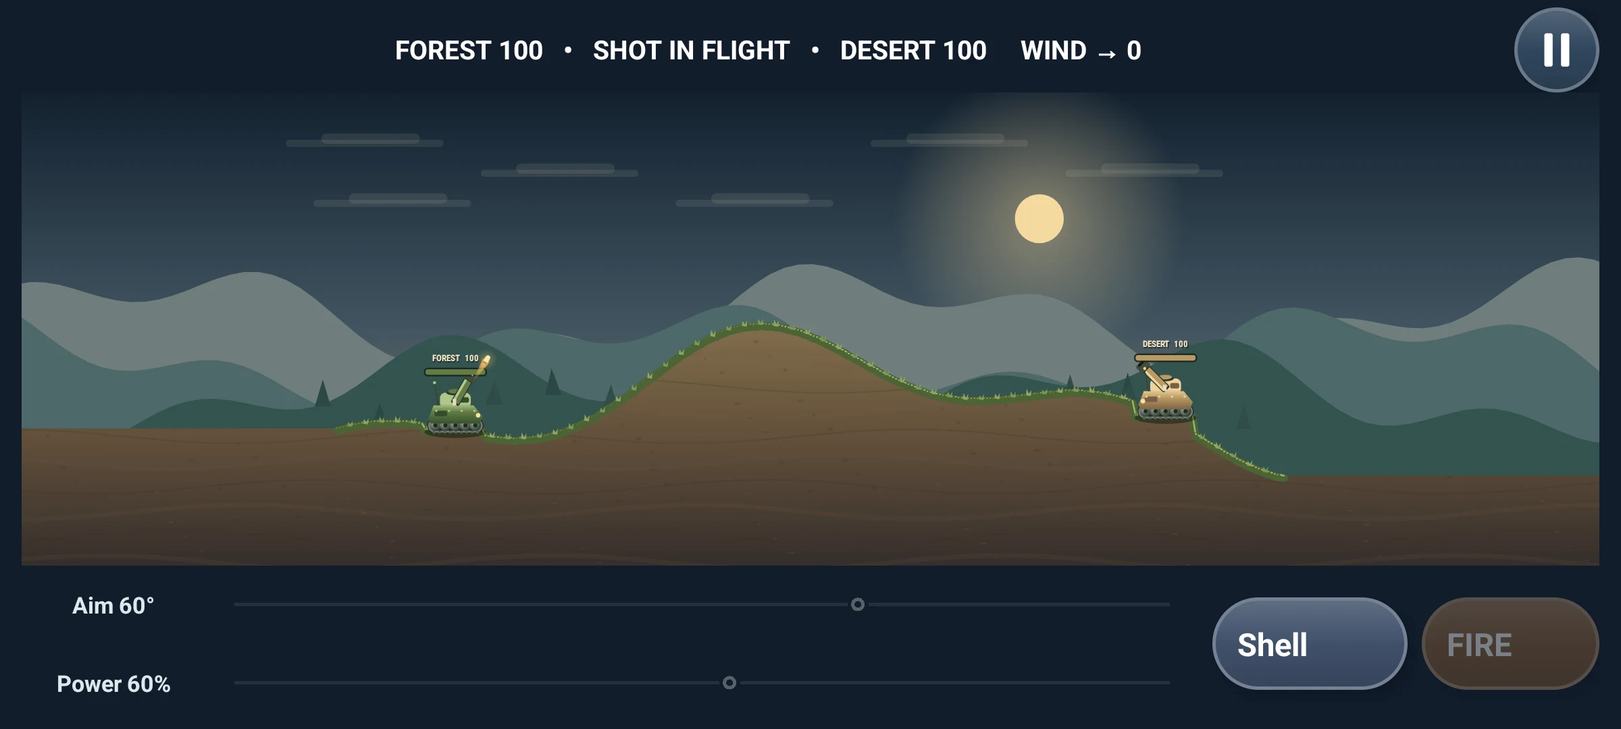
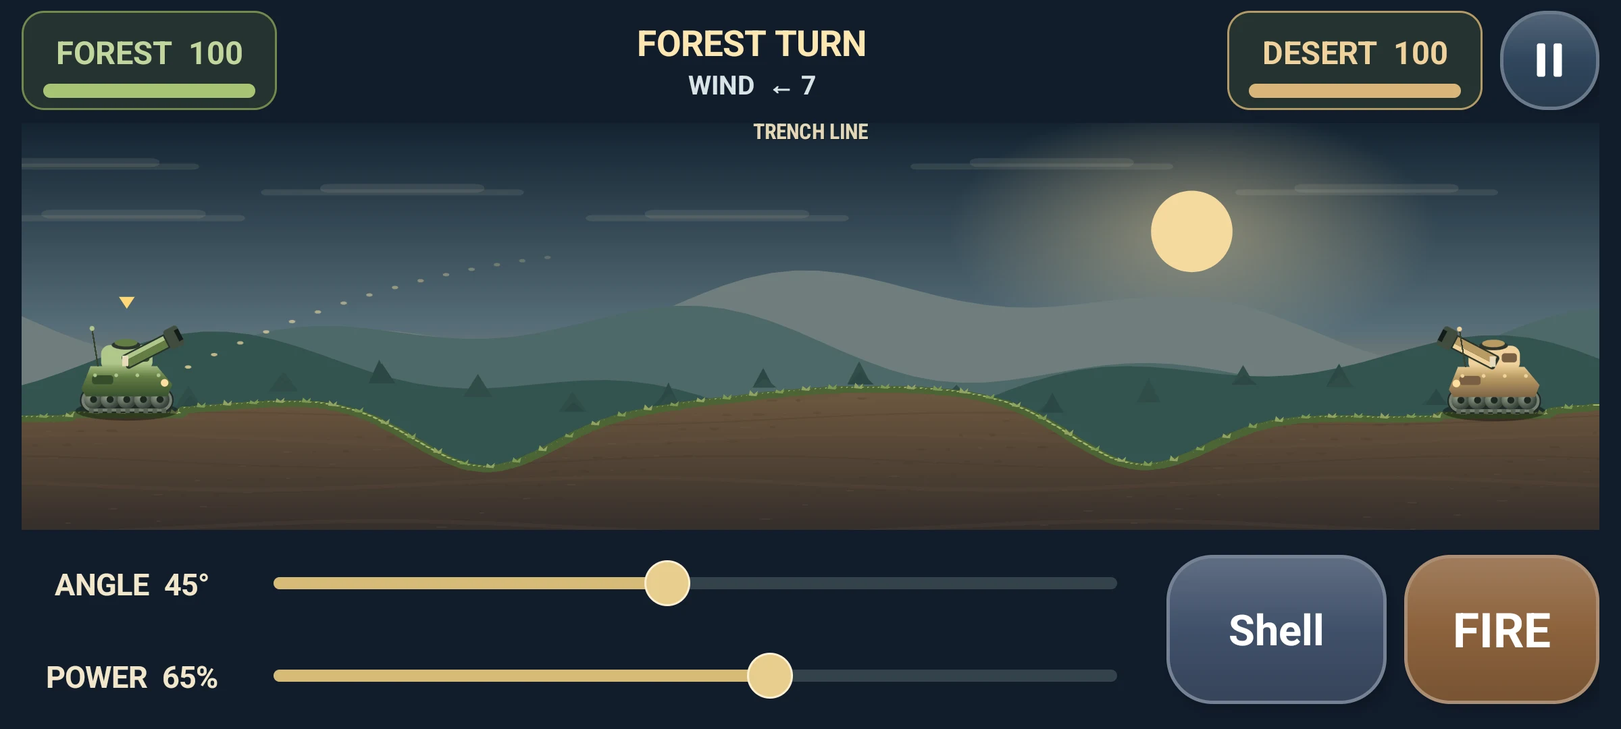
Refresh Tank Wars battlefields and larger gameplay controls

diff --git a/tank-wars/index.html b/tank-wars/index.html
@@ -1,1 +1,1 @@
-<!doctype html><html lang="en"><head><meta charset="utf-8"><meta name="viewport" content="width=device-width,initial-scale=1"><title>Tank Wars — Android Artillery Game — TripperDeeLabs</title><meta name="description" content="Aim, fire and reshape the hills in Tank Wars for Android. Turn-based artillery, destructible terrain, three weapons and offline local play. Coming soon."><link rel="canonical" href="https://tripperdeelabs.com/tank-wars/"><meta property="og:type" content="website"><meta property="og:title" content="Tank Wars — Android Artillery Game"><meta property="og:description" content="Aim, fire and reshape the hills in Tank Wars for Android. Turn-based artillery, destructible terrain, three weapons and offline local play. Coming soon."><meta property="og:url" content="https://tripperdeelabs.com/tank-wars/"><meta property="og:image" content="https://tripperdeelabs.com/assets/apps/tank-wars/art.webp"><meta property="og:image:alt" content="Tank Wars — Android Artillery Game"><meta name="twitter:card" content="summary_large_image"><meta name="twitter:title" content="Tank Wars — Android Artillery Game"><meta name="twitter:description" content="Aim, fire and reshape the hills in Tank Wars for Android. Turn-based artillery, destructible terrain, three weapons and offline local play. Coming soon."><meta name="twitter:image" content="https://tripperdeelabs.com/assets/apps/tank-wars/art.webp"><meta name="twitter:image:alt" content="Tank Wars — Android Artillery Game"><script type="application/ld+json">{"@context": "https://schema.org", "@graph": [{"@type": "Organization", "@id": "https://tripperdeelabs.com/#studio", "name": "TripperDeeLabs", "url": "https://tripperdeelabs.com/", "logo": "https://tripperdeelabs.com/assets/tripperdeelabs-logo.png", "email": "tripperdeelabs@gmail.com"}, {"@type": "WebSite", "@id": "https://tripperdeelabs.com/#website", "url": "https://tripperdeelabs.com/", "name": "TripperDeeLabs", "publisher": {"@id": "https://tripperdeelabs.com/#studio"}, "inLanguage": "en"}, {"@type": "WebPage", "@id": "https://tripperdeelabs.com/tank-wars/#webpage", "url": "https://tripperdeelabs.com/tank-wars/", "name": "Tank Wars \u2014 Android Artillery Game", "description": "Aim, fire and reshape the hills in Tank Wars for Android. Turn-based artillery, destructible terrain, three weapons and offline local play. Coming soon.", "isPartOf": {"@id": "https://tripperdeelabs.com/#website"}, "publisher": {"@id": "https://tripperdeelabs.com/#studio"}, "inLanguage": "en"}, {"@type": "BreadcrumbList", "itemListElement": [{"@type": "ListItem", "position": 1, "name": "Home", "item": "https://tripperdeelabs.com/"}, {"@type": "ListItem", "position": 2, "name": "Tank Wars \u2014 Android Artillery Game", "item": "https://tripperdeelabs.com/tank-wars/"}]}]}</script><link rel="icon" href="/assets/tripperdeelabs-logo.png" type="image/png"><link rel="stylesheet" href="/styles.css"><link rel="stylesheet" href="/catalog.css"><script defer src="/cookie-consent.js"></script></head><body><a class="skip-link" href="#main-content">Skip to main content</a><header class="site-header"><nav class="nav wrap" aria-label="Main navigation"><a class="brand" href="/"><img class="brand-logo" src="/assets/tripperdeelabs-logo.png" width="48" height="48" alt="">TripperDeeLabs</a><div class="links"><a href="/#apps">Apps</a><a href="/wear-os/">Wear OS</a><a href="/#about">About</a></div></nav></header><main id="main-content" tabindex="-1" class="wrap"><nav class="breadcrumbs" aria-label="Breadcrumb"><a href="/">Home</a> <span aria-hidden="true">/</span> <span aria-current="page">Tank Wars — Android Artillery Game</span></nav><style>.tank-hero{display:grid;grid-template-columns:1.1fr 1fr;gap:2rem;align-items:center}.tank-hero img{width:100%;height:auto;border-radius:24px}.tank-gallery{display:grid;gap:1.2rem}.tank-gallery img{width:100%;height:auto;border-radius:18px}.tank-gallery figure{margin:0}@media(max-width:650px){.tank-hero{grid-template-columns:1fr}}</style><section class="catalog-hero tank-hero"><div><p class="eyebrow">Android artillery game · Coming soon</p><h1>Tank Wars</h1><p class="lead">Aim high. Change the ground.</p><p>Line up your angle, choose your power and send a shell across the hills. Every crater changes the battlefield—and your next shot.</p><p><a class="button" href="#screenshots">See the battlefield</a> · <a href="/tank-wars/support/">How to play</a></p><p>In development. Not yet available on Google Play.</p></div><img src="/assets/apps/tank-wars/art.webp" width="768" height="768" alt="Forest-green and desert-tan camouflage tanks on opposing green hills beneath a golden shell arc"></section><section><h2>Make every shot count</h2><p>Tank Wars is a native Android, turn-based artillery game. Adjust your turret angle and firing power, watch the wind, then fire. Projectiles follow curved trajectories, explosions carve away terrain, and tanks fall when the ground underneath them disappears.</p><h2>Three ways to play</h2><p>Practice against the computer, trade turns with a friend on one phone or tablet, or try the paired Bluetooth Host a game / Join a game mode. Local gameplay needs no internet and no account.</p><p>Bluetooth is implemented in the development build, with the host calculating shots, damage and turns. Synchronization is tested in software; two-device radio gameplay still requires validation. Both devices need Bluetooth enabled, Android pairing and the same app version.</p><h2>Choose your weapon</h2><p><strong>Shell</strong> gives you unlimited standard shots. <strong>Heavy</strong> makes a wider blast, with three rounds per battle. <strong>Drill</strong> digs deeper into the ground, also with three rounds. Use terrain damage to change your opponent’s position, but protect your own foothold.</p></section><section id="screenshots"><h2>Inside the game</h2><p>Actual Android development-build captures from the emulator. Final release details may change.</p><div class="tank-gallery"><figure><img src="/assets/apps/tank-wars/home.webp" width="2400" height="1080" loading="lazy" alt="Tank Wars landscape menu with computer, two-player and Bluetooth modes"><figcaption>Choose a battle. Settings uses the gear icon.</figcaption></figure><figure><img src="/assets/apps/tank-wars/game.webp" width="2400" height="1080" loading="lazy" alt="Tank Wars battlefield with terrain, tanks, aiming sliders and Fire button"><figcaption>Native touch controls and a Canvas-rendered battlefield.</figcaption></figure></div></section><section><h2>Play at your pace</h2><p>Pause mid-shot, then resume where you left off. Local battles save on your device. Sound is optional. Compact controls keep the battlefield visible on phones and tablets.</p><h2>Between battles</h2><p>Development builds use Google test interstitial ads only after a completed battle, when starting another battle or returning Home. Close the ad to continue. If no ad is ready, play continues normally. Ads require internet; gameplay does not. Launch pricing and production ad configuration have not been announced.</p></section><p><a href="/tank-wars/privacy/">Privacy policy</a> · <a href="/tank-wars/support/">Support</a></p></main><footer class="studio-footer"><div class="wrap"><div class="studio-footer-main"><div class="studio-footer-brand"><a href="/">TripperDeeLabs</a><p>Doing TripperDee things in a TripperDee world.</p></div><nav class="studio-footer-nav" aria-label="Footer navigation"><a href="/#apps">Apps</a><a href="/#about">About the developer</a><a href="mailto:tripperdeelabs@gmail.com">Contact</a><a href="/feedback/">Feedback</a><a href="/privacy/">Website privacy</a></nav></div><div class="studio-footer-bottom"><span>© 2026 TripperDeeLabs</span><span>Google Play and the Google Play logo are trademarks of Google LLC.</span></div></div></footer></body></html>
+<!doctype html><html lang="en"><head><meta charset="utf-8"><meta name="viewport" content="width=device-width,initial-scale=1"><title>Tank Wars — Android Artillery Game — TripperDeeLabs</title><meta name="description" content="Aim, fire and reshape the hills in Tank Wars for Android. Turn-based artillery, destructible terrain, three weapons and offline local play. Coming soon."><link rel="canonical" href="https://tripperdeelabs.com/tank-wars/"><meta property="og:type" content="website"><meta property="og:title" content="Tank Wars — Android Artillery Game"><meta property="og:description" content="Aim, fire and reshape the hills in Tank Wars for Android. Turn-based artillery, destructible terrain, three weapons and offline local play. Coming soon."><meta property="og:url" content="https://tripperdeelabs.com/tank-wars/"><meta property="og:image" content="https://tripperdeelabs.com/assets/apps/tank-wars/art.webp"><meta property="og:image:alt" content="Tank Wars — Android Artillery Game"><meta name="twitter:card" content="summary_large_image"><meta name="twitter:title" content="Tank Wars — Android Artillery Game"><meta name="twitter:description" content="Aim, fire and reshape the hills in Tank Wars for Android. Turn-based artillery, destructible terrain, three weapons and offline local play. Coming soon."><meta name="twitter:image" content="https://tripperdeelabs.com/assets/apps/tank-wars/art.webp"><meta name="twitter:image:alt" content="Tank Wars — Android Artillery Game"><script type="application/ld+json">{"@context": "https://schema.org", "@graph": [{"@type": "Organization", "@id": "https://tripperdeelabs.com/#studio", "name": "TripperDeeLabs", "url": "https://tripperdeelabs.com/", "logo": "https://tripperdeelabs.com/assets/tripperdeelabs-logo.png", "email": "tripperdeelabs@gmail.com"}, {"@type": "WebSite", "@id": "https://tripperdeelabs.com/#website", "url": "https://tripperdeelabs.com/", "name": "TripperDeeLabs", "publisher": {"@id": "https://tripperdeelabs.com/#studio"}, "inLanguage": "en"}, {"@type": "WebPage", "@id": "https://tripperdeelabs.com/tank-wars/#webpage", "url": "https://tripperdeelabs.com/tank-wars/", "name": "Tank Wars \u2014 Android Artillery Game", "description": "Aim, fire and reshape the hills in Tank Wars for Android. Turn-based artillery, destructible terrain, three weapons and offline local play. Coming soon.", "isPartOf": {"@id": "https://tripperdeelabs.com/#website"}, "publisher": {"@id": "https://tripperdeelabs.com/#studio"}, "inLanguage": "en"}, {"@type": "BreadcrumbList", "itemListElement": [{"@type": "ListItem", "position": 1, "name": "Home", "item": "https://tripperdeelabs.com/"}, {"@type": "ListItem", "position": 2, "name": "Tank Wars \u2014 Android Artillery Game", "item": "https://tripperdeelabs.com/tank-wars/"}]}]}</script><link rel="icon" href="/assets/tripperdeelabs-logo.png" type="image/png"><link rel="stylesheet" href="/styles.css"><link rel="stylesheet" href="/catalog.css"><script defer src="/cookie-consent.js"></script></head><body><a class="skip-link" href="#main-content">Skip to main content</a><header class="site-header"><nav class="nav wrap" aria-label="Main navigation"><a class="brand" href="/"><img class="brand-logo" src="/assets/tripperdeelabs-logo.png" width="48" height="48" alt="">TripperDeeLabs</a><div class="links"><a href="/#apps">Apps</a><a href="/wear-os/">Wear OS</a><a href="/#about">About</a></div></nav></header><main id="main-content" tabindex="-1" class="wrap"><nav class="breadcrumbs" aria-label="Breadcrumb"><a href="/">Home</a> <span aria-hidden="true">/</span> <span aria-current="page">Tank Wars — Android Artillery Game</span></nav><style>.tank-hero{display:grid;grid-template-columns:1.1fr 1fr;gap:2rem;align-items:center}.tank-hero img{width:100%;height:auto;border-radius:24px}.tank-gallery{display:grid;gap:1.2rem}.tank-gallery img{width:100%;height:auto;border-radius:18px}.tank-gallery figure{margin:0}@media(max-width:650px){.tank-hero{grid-template-columns:1fr}}</style><section class="catalog-hero tank-hero"><div><p class="eyebrow">Android artillery game · Coming soon</p><h1>Tank Wars</h1><p class="lead">Aim high. Change the ground.</p><p>Line up your angle, choose your power and send a shell across the hills. Every crater changes the battlefield—and your next shot.</p><p><a class="button" href="#screenshots">See the battlefield</a> · <a href="/tank-wars/support/">How to play</a></p><p>In development. Not yet available on Google Play.</p></div><img src="/assets/apps/tank-wars/art.webp" width="768" height="768" alt="Forest-green and desert-tan camouflage tanks on opposing green hills beneath a golden shell arc"></section><section><h2>Make every shot count</h2><p>Tank Wars is a native Android, turn-based artillery game. Adjust your turret angle and firing power, watch the wind, then fire. Projectiles follow curved trajectories, explosions carve away terrain, and tanks fall when the ground underneath them disappears.</p><h2>Three ways to play</h2><p>Practice against the computer, trade turns with a friend on one phone or tablet, or try the paired Bluetooth Host a game / Join a game mode. Local gameplay needs no internet and no account.</p><p>Bluetooth is implemented in the development build, with the host calculating shots, damage and turns. Synchronization is tested in software; two-device radio gameplay still requires validation. Both devices need Bluetooth enabled, Android pairing and the same app version.</p><h2>A different battlefield</h2><p>Battle across rolling hills, ridgelines, trenches, border walls and fortified outposts. Tanks start farther apart on flat firing positions. Concrete defenses block shells and break down under explosions, so the battlefield changes with every hit.</p><h2>Choose your weapon</h2><p><strong>Shell</strong> gives you unlimited standard shots. <strong>Heavy</strong> makes a wider blast, with three rounds per battle. <strong>Drill</strong> digs deeper into the ground, also with three rounds. The illustrated weapon chooser shows your equipped shell and remaining ammunition. Use terrain damage to change your opponent’s position, but protect your own foothold.</p></section><section id="screenshots"><h2>Inside the game</h2><p>Actual Android development-build captures from the emulator. Final release details may change.</p><div class="tank-gallery"><figure><img src="/assets/apps/tank-wars/home.webp" width="2400" height="1080" loading="lazy" alt="Tank Wars landscape menu with computer, two-player and Bluetooth modes"><figcaption>Choose a battle. Settings uses the gear icon.</figcaption></figure><figure><img src="/assets/apps/tank-wars/game.webp" width="2400" height="1080" loading="lazy" alt="Tank Wars battlefield with terrain, tanks, aiming sliders and Fire button"><figcaption>Native touch controls and a Canvas-rendered battlefield.</figcaption></figure></div></section><section><h2>Play at your pace</h2><p>Pause mid-shot, then resume where you left off. Local battles save on your device. Sound is optional. Compact controls keep the battlefield visible on phones and tablets.</p><h2>Between battles</h2><p>Development builds use Google test interstitial ads only after a completed battle, when starting another battle or returning Home. Close the ad to continue. If no ad is ready, play continues normally. Ads require internet; gameplay does not. Launch pricing and production ad configuration have not been announced.</p></section><p><a href="/tank-wars/privacy/">Privacy policy</a> · <a href="/tank-wars/support/">Support</a></p></main><footer class="studio-footer"><div class="wrap"><div class="studio-footer-main"><div class="studio-footer-brand"><a href="/">TripperDeeLabs</a><p>Doing TripperDee things in a TripperDee world.</p></div><nav class="studio-footer-nav" aria-label="Footer navigation"><a href="/#apps">Apps</a><a href="/#about">About the developer</a><a href="mailto:tripperdeelabs@gmail.com">Contact</a><a href="/feedback/">Feedback</a><a href="/privacy/">Website privacy</a></nav></div><div class="studio-footer-bottom"><span>© 2026 TripperDeeLabs</span><span>Google Play and the Google Play logo are trademarks of Google LLC.</span></div></div></footer></body></html>

diff --git a/scripts/tank_wars_pages.py b/scripts/tank_wars_pages.py
@@ -4,7 +4,7 @@ from bs4 import BeautifulSoup
 ROOT=Path(__file__).resolve().parents[1]
 def build(page):
  base='/assets/apps/tank-wars/'
- body=f'''<style>.tank-hero{{display:grid;grid-template-columns:1.1fr 1fr;gap:2rem;align-items:center}}.tank-hero img{{width:100%;height:auto;border-radius:24px}}.tank-gallery{{display:grid;gap:1.2rem}}.tank-gallery img{{width:100%;height:auto;border-radius:18px}}.tank-gallery figure{{margin:0}}@media(max-width:650px){{.tank-hero{{grid-template-columns:1fr}}}}</style><section class="catalog-hero tank-hero"><div><p class="eyebrow">Android artillery game · Coming soon</p><h1>Tank Wars</h1><p class="lead">Aim high. Change the ground.</p><p>Line up your angle, choose your power and send a shell across the hills. Every crater changes the battlefield—and your next shot.</p><p><a class="button" href="#screenshots">See the battlefield</a> · <a href="/tank-wars/support/">How to play</a></p><p>In development. Not yet available on Google Play.</p></div><img src="{base}art.webp" width="768" height="768" alt="Forest-green and desert-tan camouflage tanks on opposing green hills beneath a golden shell arc"></section><section><h2>Make every shot count</h2><p>Tank Wars is a native Android, turn-based artillery game. Adjust your turret angle and firing power, watch the wind, then fire. Projectiles follow curved trajectories, explosions carve away terrain, and tanks fall when the ground underneath them disappears.</p><h2>Three ways to play</h2><p>Practice against the computer, trade turns with a friend on one phone or tablet, or try the paired Bluetooth Host a game / Join a game mode. Local gameplay needs no internet and no account.</p><p>Bluetooth is implemented in the development build, with the host calculating shots, damage and turns. Synchronization is tested in software; two-device radio gameplay still requires validation. Both devices need Bluetooth enabled, Android pairing and the same app version.</p><h2>Choose your weapon</h2><p><strong>Shell</strong> gives you unlimited standard shots. <strong>Heavy</strong> makes a wider blast, with three rounds per battle. <strong>Drill</strong> digs deeper into the ground, also with three rounds. Use terrain damage to change your opponent’s position, but protect your own foothold.</p></section><section id="screenshots"><h2>Inside the game</h2><p>Actual Android development-build captures from the emulator. Final release details may change.</p><div class="tank-gallery"><figure><img src="{base}home.webp" width="2400" height="1080" loading="lazy" alt="Tank Wars landscape menu with computer, two-player and Bluetooth modes"><figcaption>Choose a battle. Settings uses the gear icon.</figcaption></figure><figure><img src="{base}game.webp" width="2400" height="1080" loading="lazy" alt="Tank Wars battlefield with terrain, tanks, aiming sliders and Fire button"><figcaption>Native touch controls and a Canvas-rendered battlefield.</figcaption></figure></div></section><section><h2>Play at your pace</h2><p>Pause mid-shot, then resume where you left off. Local battles save on your device. Sound is optional. Compact controls keep the battlefield visible on phones and tablets.</p><h2>Between battles</h2><p>Development builds use Google test interstitial ads only after a completed battle, when starting another battle or returning Home. Close the ad to continue. If no ad is ready, play continues normally. Ads require internet; gameplay does not. Launch pricing and production ad configuration have not been announced.</p></section><p><a href="/tank-wars/privacy/">Privacy policy</a> · <a href="/tank-wars/support/">Support</a></p>'''
+ body=f'''<style>.tank-hero{{display:grid;grid-template-columns:1.1fr 1fr;gap:2rem;align-items:center}}.tank-hero img{{width:100%;height:auto;border-radius:24px}}.tank-gallery{{display:grid;gap:1.2rem}}.tank-gallery img{{width:100%;height:auto;border-radius:18px}}.tank-gallery figure{{margin:0}}@media(max-width:650px){{.tank-hero{{grid-template-columns:1fr}}}}</style><section class="catalog-hero tank-hero"><div><p class="eyebrow">Android artillery game · Coming soon</p><h1>Tank Wars</h1><p class="lead">Aim high. Change the ground.</p><p>Line up your angle, choose your power and send a shell across the hills. Every crater changes the battlefield—and your next shot.</p><p><a class="button" href="#screenshots">See the battlefield</a> · <a href="/tank-wars/support/">How to play</a></p><p>In development. Not yet available on Google Play.</p></div><img src="{base}art.webp" width="768" height="768" alt="Forest-green and desert-tan camouflage tanks on opposing green hills beneath a golden shell arc"></section><section><h2>Make every shot count</h2><p>Tank Wars is a native Android, turn-based artillery game. Adjust your turret angle and firing power, watch the wind, then fire. Projectiles follow curved trajectories, explosions carve away terrain, and tanks fall when the ground underneath them disappears.</p><h2>Three ways to play</h2><p>Practice against the computer, trade turns with a friend on one phone or tablet, or try the paired Bluetooth Host a game / Join a game mode. Local gameplay needs no internet and no account.</p><p>Bluetooth is implemented in the development build, with the host calculating shots, damage and turns. Synchronization is tested in software; two-device radio gameplay still requires validation. Both devices need Bluetooth enabled, Android pairing and the same app version.</p><h2>A different battlefield</h2><p>Battle across rolling hills, ridgelines, trenches, border walls and fortified outposts. Tanks start farther apart on flat firing positions. Concrete defenses block shells and break down under explosions, so the battlefield changes with every hit.</p><h2>Choose your weapon</h2><p><strong>Shell</strong> gives you unlimited standard shots. <strong>Heavy</strong> makes a wider blast, with three rounds per battle. <strong>Drill</strong> digs deeper into the ground, also with three rounds. The illustrated weapon chooser shows your equipped shell and remaining ammunition. Use terrain damage to change your opponent’s position, but protect your own foothold.</p></section><section id="screenshots"><h2>Inside the game</h2><p>Actual Android development-build captures from the emulator. Final release details may change.</p><div class="tank-gallery"><figure><img src="{base}home.webp" width="2400" height="1080" loading="lazy" alt="Tank Wars landscape menu with computer, two-player and Bluetooth modes"><figcaption>Choose a battle. Settings uses the gear icon.</figcaption></figure><figure><img src="{base}game.webp" width="2400" height="1080" loading="lazy" alt="Tank Wars battlefield with terrain, tanks, aiming sliders and Fire button"><figcaption>Native touch controls and a Canvas-rendered battlefield.</figcaption></figure></div></section><section><h2>Play at your pace</h2><p>Pause mid-shot, then resume where you left off. Local battles save on your device. Sound is optional. Compact controls keep the battlefield visible on phones and tablets.</p><h2>Between battles</h2><p>Development builds use Google test interstitial ads only after a completed battle, when starting another battle or returning Home. Close the ad to continue. If no ad is ready, play continues normally. Ads require internet; gameplay does not. Launch pricing and production ad configuration have not been announced.</p></section><p><a href="/tank-wars/privacy/">Privacy policy</a> · <a href="/tank-wars/support/">Support</a></p>'''
  page('/tank-wars/','Tank Wars — Android Artillery Game','Aim, fire and reshape the hills in Tank Wars for Android. Turn-based artillery, destructible terrain, three weapons and offline local play. Coming soon.',body,'https://tripperdeelabs.com'+base+'art.webp')
  page('/tank-wars/privacy/','Tank Wars privacy policy','Tank Wars local saves, optional paired Bluetooth, Google test ads and support practices.','''<section><h1>Tank Wars privacy policy</h1><p>Updated November 6, 2026. This describes the current Tank Wars Android development build, package com.tripperdeelabs.tankwars, provided by TripperDeeLabs.</p><h2>Local battle data</h2><p>Terrain, tank health, turn, projectile state and sound preferences are saved in the app’s private device storage. No TripperDeeLabs account or cloud-save service is used. Uninstalling or clearing storage removes this data. Android backup is disabled in the manifest; manufacturer device-transfer behavior may vary.</p><h2>Bluetooth play</h2><p>Optional Bluetooth shares aiming and firing commands, terrain changes and battle state directly with your paired opponent. Android Nearby devices permission is requested on supported versions. The game uses Android settings for device discovery and pairing. Battle messages are not uploaded to a TripperDeeLabs server. Leaving the app ends the Bluetooth session; your separate local save is retained.</p><h2>Advertising</h2><p>The current build includes Google Mobile Ads SDK using Google test interstitials. Production ads are disabled. The SDK may process IP addresses, device/network information, diagnostics and ad interactions for ad delivery, measurement and security. Test requests use G-rated, child-directed and under-age-of-consent treatment flags. These settings are not a claim of approved production audience or Families eligibility. No developer-operated analytics SDK is included.</p><p>See <a href="https://policies.google.com/privacy">Google’s privacy policy</a>. Production audience, advertising and consent setup must be completed before release. This policy will be updated if practices change.</p><h2>Permissions and choices</h2><p>Internet/network-state access supports ads. Nearby devices access is optional for local play. Tank Wars does not request location, contacts, microphone or camera permission. There are no purchases in this build.</p><h2>Support and privacy questions</h2><p>Email <a href="mailto:tripperdeelabs@gmail.com">tripperdeelabs@gmail.com</a>. We receive the information you choose to send and use it to respond. Avoid sending passwords or payment details. You may also contact us concerning support correspondence.</p><p>Website analytics are separate from the app and covered by our <a href="/privacy/">website privacy policy</a>.</p><p><a href="/tank-wars/">Game overview</a> · <a href="/tank-wars/support/">Support</a></p></section>''')
  page('/tank-wars/support/','Tank Wars support','How to aim, use weapons, pause, save and connect over Bluetooth in Tank Wars.','''<section><h1>Tank Wars support</h1><h2>Aim and fire</h2><p>Play in landscape. Move the Aim slider to change your turret angle and the Power slider to change shot strength. Tap the weapon name to choose Shell, Heavy or Drill. Tap FIRE when it is your turn. Drag across the battlefield to aim, or use the sliders for finer adjustments. A short dotted guide shows the initial wind-aware trajectory; each tank remembers its previous angle and power. Wind bends the trajectory. The turn passes after the shot and any falling tanks have settled.</p><h2>Win the battle</h2><p>Reduce the other tank’s health to zero. Nearby explosions damage tanks; falling can cause additional damage. Shell is unlimited, while Heavy and Drill each start with three rounds. Heavy creates a wider blast; Drill digs deeper. Two players takes turns on the same device; Play computer gives you a computer opponent.</p><h2>Pause and resume</h2><p>The two-bar icon pauses. Resume continues a shot or settling terrain. Home keeps the local battle, including ammunition and terrain. Starting a different local battle asks before replacing it. The gear opens Settings; the Home icon returns to the menu. Do not clear storage or uninstall to troubleshoot if you want to keep your save.</p><h2>Bluetooth setup</h2><p>Enable Bluetooth and pair both devices in Android Bluetooth settings. Install the same Tank Wars version on both. Choose Bluetooth play, then Host a game on one phone and Join a game on the other. Grant Nearby devices permission and select the hosting phone. The host controls the simulation; each player can aim and fire only on their own turn. Leaving the foreground disconnects the session. Reconnect to start a new battle. Two-device radio behavior is still being validated.</p><h2>Ads</h2><p>Google test ads may appear only after a completed battle, when choosing New battle or Home. Use the ad’s Close button when available. If an ad cannot load, play continues. Bluetooth sessions close before an ad; host and join again for another battle.</p><h2>Contact</h2><p>Email <a href="mailto:tripperdeelabs@gmail.com?subject=Tank%20Wars%20support">tripperdeelabs@gmail.com</a> with your app version, device model and what happened.</p><p><a href="/tank-wars/">Game overview</a> · <a href="/tank-wars/privacy/">Privacy policy</a></p></section>''')
